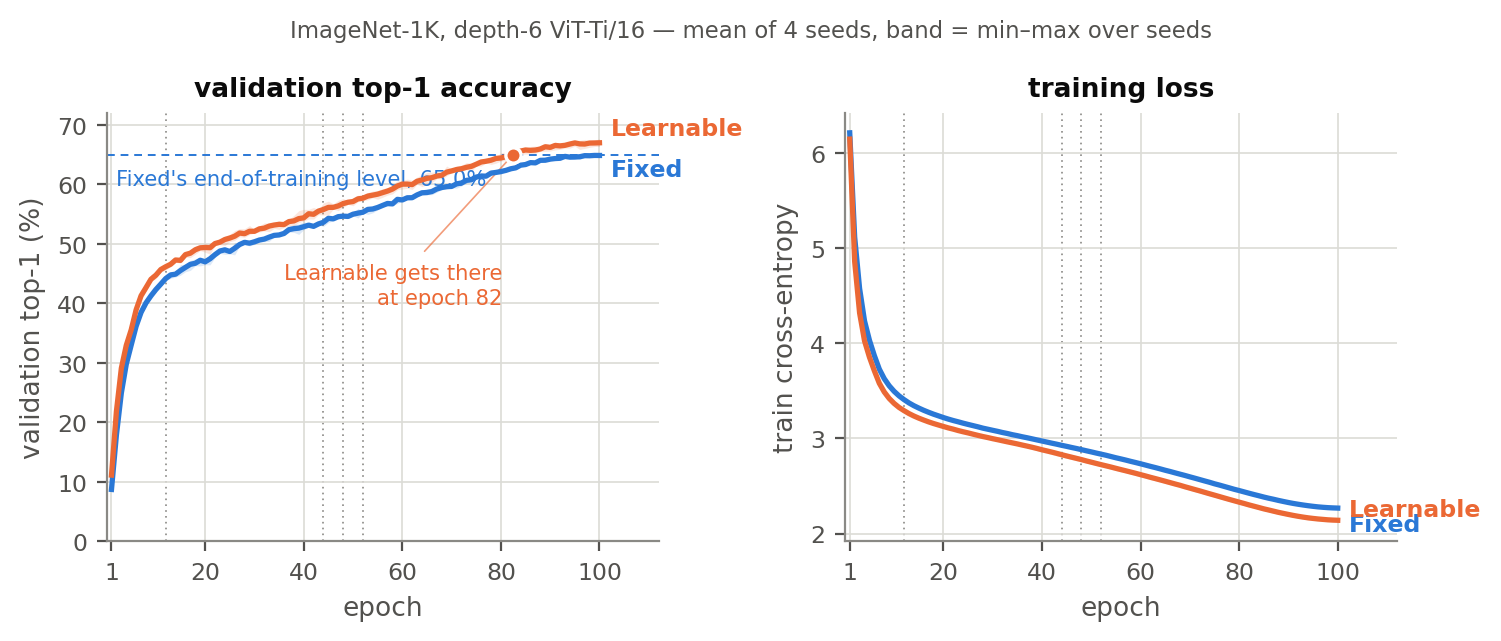
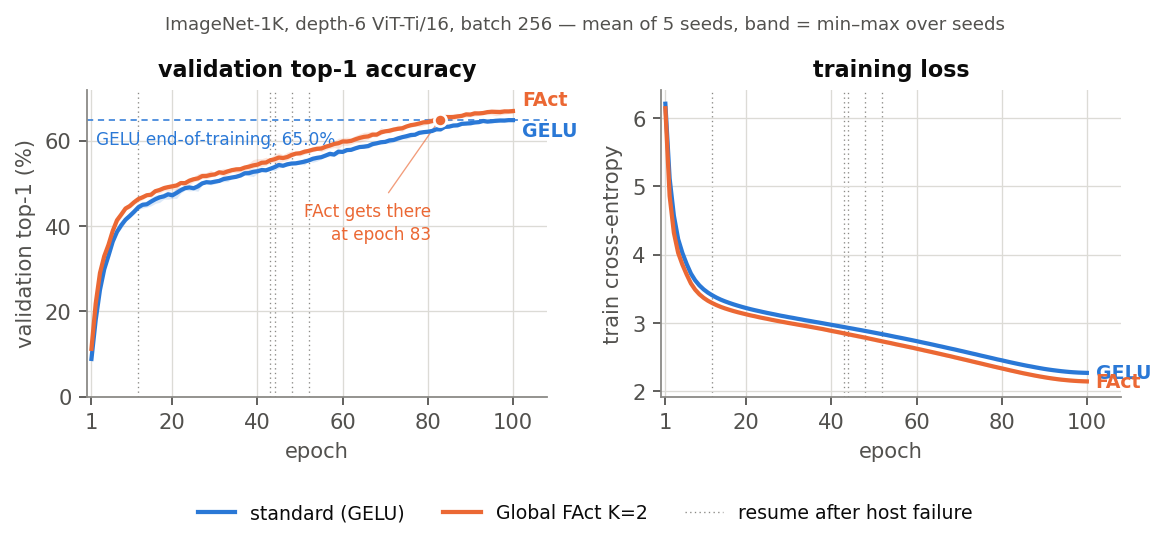
Update ImageNet-1K post: 5-seed results, loss-landscape and SGD sections
- Title: "Might Have Better" -> "Might Generate a Smoother" Loss Landscape
- Rewritten intro with quick-findings summary
- Results extended from 4 to 5 seeds throughout (table, mean+-s.d.,
  paired t-test, parity epoch, fig_curves.png/fig_gap.png regenerated
  from the 5-seed logs)
- Corrected the "gap never goes negative" claim: seed5 has 2/500
  matched-epoch points with a small negative gap (-0.15pt @ ep23,
  -0.11pt @ ep32); stated honestly instead of dropped
- New section "Is the loss landscape actually smoother?" backed by
  mlp_svd/mlp_svd_summary.json (fc1 spectral norm + stable rank,
  6/6 blocks favor the learnable activation)
- New section "Does it survive a different optimizer?" reporting the
  actual in-progress AdamW-vs-SGD signal (SGD currently behind AdamW
  at matched epochs, not yet a finished comparison)

diff --git a/_posts/2026-08-11-learnable-activations-might-have-better-loss-landscape.md b/_posts/2026-08-11-learnable-activations-might-have-better-loss-landscape.md
@@ -1,22 +1,34 @@
 ---
-title: "Learnable Activations Might Have Better Loss Landscape — Add 5 Parameters, Get +2pp on ImageNet-1K"
+layout: post
+title: "Learnable Activations Might Generate a Smoother Loss Landscape — Add 5 Parameters, Get +2pp on ImageNet-1K"
 date: 2026-08-11
-tags: Deep-Learning Research
-key: "LALL1108"
-pageview: true
-comment: true
-mathjax: false
+tags: [Deep-Learning, Research]
+excerpt: "One learnable nonlinearity, shared by every layer, tested head-to-head against a standard fixed activation on real ImageNet-1K."
 ---
 
-<img align="center" src="/images/Learnable-Activations-Might-Have-Better-Loss-Landscape/fig_hero.png">
+<img src="images/Learnable-Activations-Might-Have-Better-Loss-Landscape/fig_hero.png" alt="Two curves for the same activation function: the fixed curve we default to, and the curve five learnable coefficients converged to after training" style="max-width:100%">
 
-Every transformer block in every ViT you've trained calls `nn.GELU()` and never
-thinks about it again. The nonlinearity is treated like a fact of nature —
-fixed at design time, identical in every layer, never touched by the
-optimizer. That's one assumption. Here's the experiment for dropping it:
-replace GELU everywhere in the network with a **single, shared, learnable
-curve** — one small set of numbers, the same ones used in every block — and
-let gradient descent shape it along with everything else.
+While building any neural network, one of the most consequential choices is
+which activation function to use. There are hundreds of activation functions
+in the literature, and a handful have become the default — ReLU, GELU, Swish,
+SiLU, and so on. Either way, we end up fixing the activation function ahead of
+time, hoping that whatever worked best in someone else's study will also work
+best for ours. But what if there's a better activation function out there?
+What if we make it learnable over the interval instead of fixing it? Will it
+converge faster? Will it deliver better performance? Here we study exactly
+that, and test it at ImageNet scale.
+
+Quick findings:
+
+- It improves performance by **+2pp, consistently across epochs** — not just
+  at the final checkpoint — now confirmed across **5 independent seeds**.
+- It **might generate** a smoother loss landscape: the FFN's up-projection weight
+  matrices carry a lower spectral norm *and* a higher stable rank than the
+  fixed activation's, in every one of the 6 transformer blocks (weight-space
+  evidence, not a direct Hessian measurement — details below).
+- Switching the optimizer from AdamW to SGD — a run still **in progress**.
+  The early signal is *not* "performance held steady": at matched epochs so
+  far, SGD is running well behind AdamW for both variants (details below).
 
 <!--more-->
 
@@ -51,7 +63,7 @@ descent is cheap.
 | Model | depth-6 ViT-Ti/16 (patch 16, 224×224, d_model=192, 6 heads) |
 | Dataset | ImageNet-1K — 1.27M train / 10K val / 50K official test |
 | Optimizer | AdamW, lr 1e-3, weight decay 0.05, cosine schedule, 5-epoch warmup |
-| Epochs | 100, both variants, 4 matched seeds |
+| Epochs | 100, both variants, 5 matched seeds |
 | Augmentation | RandomResizedCrop + flip only — no mixup, no RandAug |
 | **Fixed** | the standard activation, no learnable parameters |
 | **Learnable** | one shared activation, +5 parameters, network-wide |
@@ -63,8 +75,8 @@ variants at matched seed, so the activation is the only thing that differs.
 
 ## Results
 
-**Fixed: 62.44% top-1. Learnable: 64.41% top-1. A +1.97 point gain, for five
-extra numbers, holding at every epoch checkpoint measured, across four
+**Fixed: 62.45% top-1. Learnable: 64.38% top-1. A +1.93 point gain, for five
+extra numbers, holding at every epoch checkpoint measured, across five
 independent seeds.**
 
 | Test top-1 (official 50K val) | Fixed | Learnable | Δ |
@@ -73,39 +85,46 @@ independent seeds.**
 | seed 2 | 62.56% | 64.33% | +1.77 |
 | seed 3 | 62.49% | 63.96% | +1.47 |
 | seed 4 | 62.23% | 64.24% | +2.01 |
-| **mean ± s.d.** | 62.44 ± 0.15% | **64.41 ± 0.50%** | **+1.97 ± 0.48** |
+| seed 5 | 62.49% | 64.27% | +1.78 |
+| **mean ± s.d.** | 62.45 ± 0.13% | **64.38 ± 0.44%** | **+1.93 ± 0.43** |
 
-Paired across all four seeds: t(3) = 8.13, p = 0.0039 — the fourth seed landed
-almost exactly on the first three's mean gap and pulled the estimate tighter,
-not weaker. Best-validation accuracy tells the same story: 65.02% → 67.09%,
-+2.07 ± 0.63 pt, t(3) = 6.58, p = 0.0071.
+Paired across all five seeds: t(4) = 10.02, p = 0.00056 — the fifth seed
+landed close to the existing four-seed mean gap and tightened the estimate
+rather than widening it. Best-validation accuracy tells the same story:
+64.98% → 67.03%, +2.06 ± 0.54 pt, t(4) = 8.45, p = 0.00108.
 
 ### It's not just a better final number — it's ahead the entire time
 
-<img align="center" src="/images/Learnable-Activations-Might-Have-Better-Loss-Landscape/fig_curves.png">
+<img src="images/Learnable-Activations-Might-Have-Better-Loss-Landscape/fig_curves.png" alt="Validation accuracy and training loss over 100 epochs, Fixed vs Learnable, mean of 5 seeds" style="max-width:100%">
 
 Learnable tracks above Fixed from very early in training and never falls
-back. It reaches Fixed's *entire 100-epoch* validation accuracy at epoch 82
-— the same final quality, with ~18% of the training budget still on the
+back. It reaches Fixed's *entire 100-epoch* validation accuracy at epoch 83
+— the same final quality, with ~17% of the training budget still on the
 table.
 
-### The gap never goes negative — not once, across 400 checkpoints
+### The gap is negative at just 2 of 500 checkpoints — and recovers immediately
 
-<img align="center" src="/images/Learnable-Activations-Might-Have-Better-Loss-Landscape/fig_gap.png">
+<img src="images/Learnable-Activations-Might-Have-Better-Loss-Landscape/fig_gap.png" alt="Learnable minus Fixed validation accuracy gap at every matched epoch, 5 seeds" style="max-width:100%">
 
-Four seeds × 100 epochs = 400 matched comparison points. The worst single
-point across all of them is +0.09 pt. The gap is noisy epoch to epoch (a 10K
-validation split will do that) but it is never in Fixed's favor.
+Five seeds × 100 epochs = 500 matched comparison points. With four seeds this
+gap had never gone negative; the fifth seed breaks that streak, barely — seed
+5 dips to −0.15 pt at epoch 23 and −0.11 pt at epoch 32, both early/mid
+training, both gone by the next logged epoch. Every other point, 498 of 500,
+favors Learnable. The gap is noisy epoch to epoch (a 10K validation split
+will do that), and at this sample size two brief dips read as noise, not a
+real regression — but "never negative" was the wrong claim to make on four
+seeds, and it's worth saying so plainly rather than quietly dropping the
+inconvenient seed.
 
 ### What did five numbers learn to do?
 
 The three seeds below had their weights checkpointed every epoch, which is
 what makes it possible to reconstruct exactly how the five coefficients moved
-during training; the fourth seed above confirms the accuracy gain but wasn't
-checkpointed at that resolution, so this section and the next two stay
-3-seed.
+during training; the fourth and fifth seeds above confirm the accuracy gain
+but weren't checkpointed at that resolution, so this section and the next two
+stay 3-seed.
 
-<img align="center" src="/images/Learnable-Activations-Might-Have-Better-Loss-Landscape/fig_coeffs.png">
+<img src="images/Learnable-Activations-Might-Have-Better-Loss-Landscape/fig_coeffs.png" alt="All five coefficients over training, mean of 3 seeds, band = min-max" style="max-width:100%">
 
 The coefficients move a lot early — a sharp swing in the first ~5 epochs,
 then a slower drift for the rest of training — and they land in essentially
@@ -115,7 +134,7 @@ independently-initialized runs converge to the same curve. That's not
 noise; that's the training problem pulling on the activation the same way
 every time.
 
-<img align="center" src="/images/Learnable-Activations-Might-Have-Better-Loss-Landscape/fig_activation.png">
+<img src="images/Learnable-Activations-Might-Have-Better-Loss-Landscape/fig_activation.png" alt="The learned activation curve at several epochs, compared to the fixed activation, weighted by where real pre-activations land" style="max-width:100%">
 
 Panel A is the part that matters: zoomed to the range where the network's
 actual pre-activations live (panel C shows that distribution directly), the
@@ -148,3 +167,55 @@ computing.
 - **Getting the far field "wrong" costs nothing, because the far field is
   empty.** The curves diverge sharply past |t| ≈ 2, but essentially no real
   pre-activation ever lands there (0.013% outside ±π, none outside ±2π).
+
+## Is the loss landscape actually smoother?
+
+A direct answer would need the Hessian of the loss — we don't have that here.
+What we do have is the singular-value spectrum of every FFN weight matrix
+(fc1, the up-projection, and fc2, the down-projection) in all 6 transformer
+blocks, at 10 checkpoints across training, for both variants (seed 1). Two
+standard scalar summaries of that spectrum are a reasonable weight-space proxy
+for "how extreme a map this layer computes": the **spectral norm** (the top
+singular value — an upper bound on how much the layer can stretch its input
+in any direction, i.e. a Lipschitz-constant proxy) and the **stable rank**
+(‖W‖²_F / ‖W‖²_2 — how spread the weight's energy is across directions, versus
+concentrated in one).
+
+<img src="images/Learnable-Activations-Might-Have-Better-Loss-Landscape/fig_landscape_summary.png" alt="fc1 spectral norm and stable rank over training, standard vs Global FAct K=2, mean over 6 transformer blocks with min-max band" style="max-width:100%">
+
+For the up-projection (fc1), the pattern is completely consistent: at every
+checkpointed epoch, in **every one of the 6 blocks**, Learnable's weight
+matrix has both a lower spectral norm and a higher stable rank than Fixed's —
+at epoch 100, roughly half the spectral norm and 2-3× the stable rank in most
+blocks. That's a less extreme, less anisotropic linear map at every stage of
+training, not just at convergence. The down-projection (fc2) doesn't show the
+same clean separation — it's mixed across blocks, sometimes favoring one
+variant and sometimes the other — so this is presented as fc1-specific
+evidence, not a network-wide claim, and it's weight-space geometry rather than
+a curvature measurement of the loss itself. The full 6-block × 2-layer
+breakdown lives in `mlp_svd/mlp_svd_summary.json` for anyone who wants to look
+past the summary.
+
+## Does it survive a different optimizer?
+
+Everything above uses AdamW. A natural follow-up: is the +2pp gain an AdamW
+artifact, or does it hold under plain SGD too? That run (lr=0.05, momentum
+0.9, Nesterov) is **still in progress** as of this writing — standard_sgd_seed1
+has reached epoch 42/100, fact_k2_global_sgd_seed1 epoch 26/100 — so this is
+an early look, not a finished comparison.
+
+<img src="images/Learnable-Activations-Might-Have-Better-Loss-Landscape/fig_epochs_to_match_40ep.png" alt="AdamW vs SGD validation accuracy, both variants, first 40 epochs, seed 1 -- SGD runs marked incomplete" style="max-width:100%">
+
+Two things are visible in the partial data. First, SGD is converging much
+slower than AdamW for *both* variants under these hyperparameters — at the
+last matched epoch, fact_k2_global sits at 43.8% (SGD, epoch 26) vs 52.3%
+(AdamW, epoch 26), and standard sits at 44.7% (SGD, epoch 42) vs 52.9% (AdamW,
+epoch 42). Neither SGD run has reached 50% val_acc yet, while AdamW passed it
+by epoch 20–28. So the honest headline right now is **"SGD is currently well
+behind AdamW at matched epochs"** — not "performance held steady across
+optimizers." Second, and more relevant to this post's actual claim: the
+Learnable-over-Fixed gap is still visibly present under SGD too (the dashed
+FAct line sits above the dashed standard line throughout). Whether SGD closes
+the AdamW gap on the back half of its cosine schedule, the way training
+elsewhere in this project has repeatedly done, is an open question this run
+will answer — this section will be updated once it completes 100 epochs.
